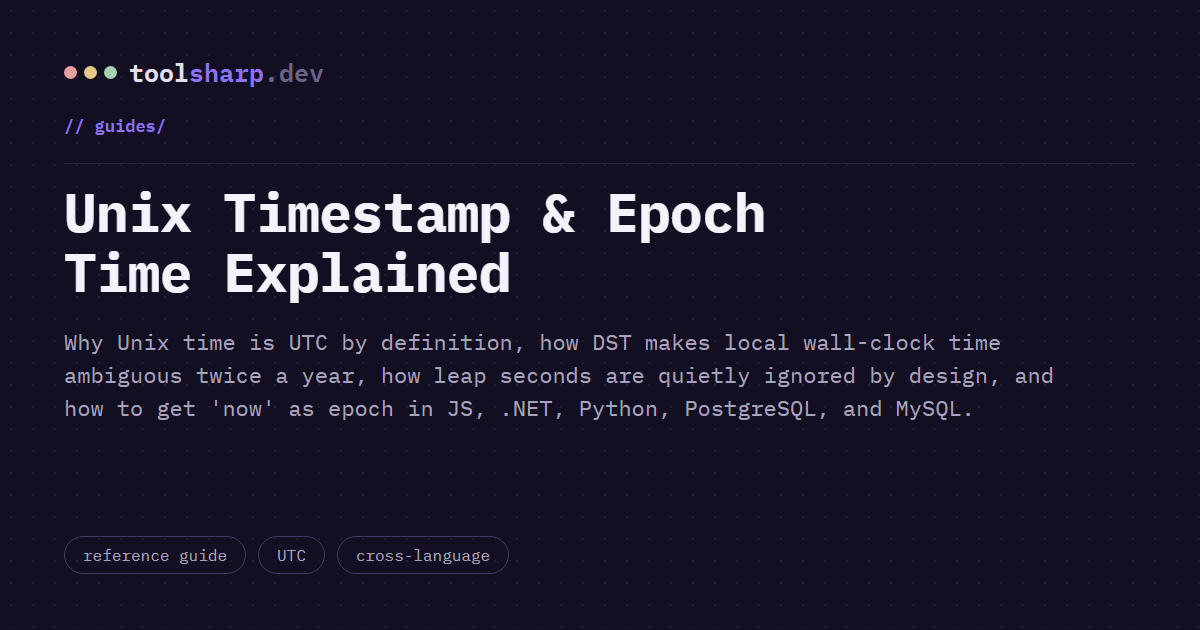
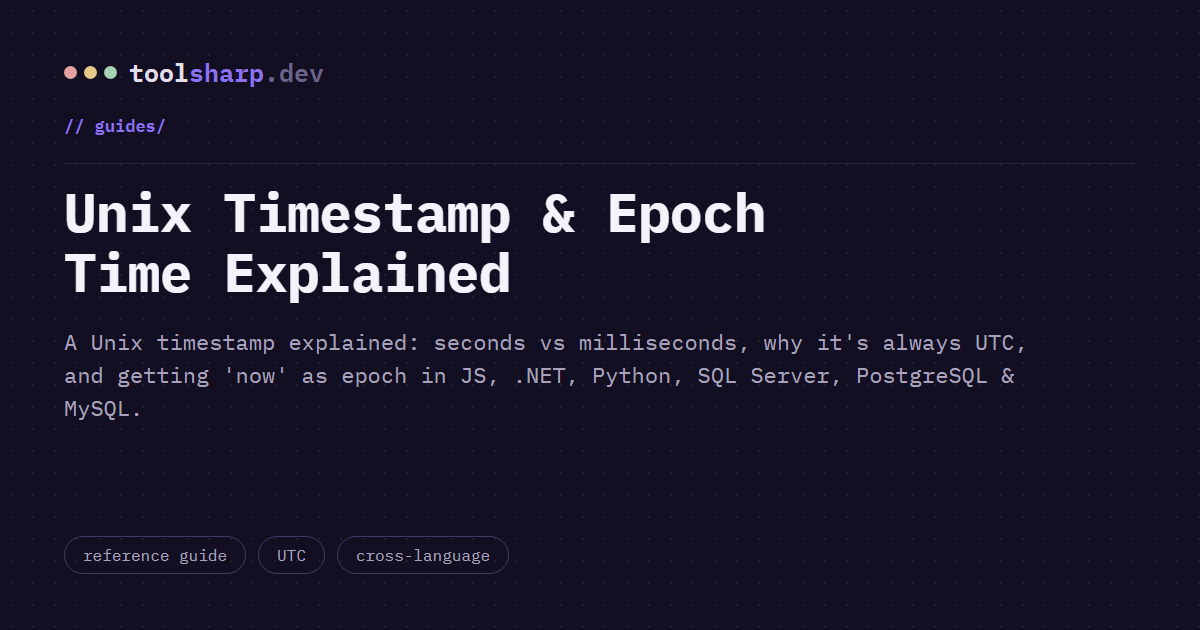
content: generate dedicated OG images for the 11 guides still using home.png
Found during another enhancement pass: more than half the guides (11 of
20) were falling back to the generic homepage card on social shares
instead of their own -- same gap already found and fixed for
curl-converter's tool page, just much bigger here. The generator
(scripts/generate-guide-og.js) already existed and already
auto-discovers every guide in guides/ rather than needing a hardcoded
list, so this was a matter of actually running it and wiring each
guide's og:image/twitter:image to the result -- nothing new to build.

Regenerating all 20 (not just the 11 missing) also caught a second,
smaller instance of the same underlying problem: unix-timestamp-epoch-
explained's card was stale from before its SQL Server/T-SQL section
was added, still showing the old description. That's the site's single
biggest source of impressions, so its OG card mattering is not
theoretical.

Verified: full E2E suite clean (crawl, links, a11y, 23/23 tools,
89/89 FAQ matches), new images confirmed present in the built dist,
two regenerated cards spot-checked visually.

Changed region(s): [[0.0308, 0.5127, 0.8942, 0.6635]]

diff --git a/guides/sql-server-keyword-not-supported-encrypt.html b/guides/sql-server-keyword-not-supported-encrypt.html
@@ -16,14 +16,14 @@
 <meta property="og:url" content="https://toolsharp.dev/guides/sql-server-keyword-not-supported-encrypt">
 <meta property="og:title" content="&quot;Keyword Not Supported&quot; and Certificate Trust Errors in SQL Server Connection Strings">
 <meta property="og:description" content="Why a SQL Server connection string that worked for years suddenly throws 'Keyword not supported' or 'certificate chain was issued by an authority that is not trusted' — both trace back to the same library change.">
-<meta property="og:image" content="https://toolsharp.dev/assets/og/home.png">
+<meta property="og:image" content="https://toolsharp.dev/assets/og/guide-sql-server-keyword-not-supported-encrypt.png">
 <meta property="og:site_name" content="ToolSharp.dev">
 
 <meta name="twitter:card" content="summary_large_image">
 <meta name="twitter:url" content="https://toolsharp.dev/guides/sql-server-keyword-not-supported-encrypt">
 <meta name="twitter:title" content="&quot;Keyword Not Supported&quot; and Certificate Trust Errors in SQL Server Connection Strings">
 <meta name="twitter:description" content="Why a SQL Server connection string that worked for years suddenly throws 'Keyword not supported' or 'certificate chain was issued by an authority that is not trusted' — both trace back to the same library change.">
-<meta name="twitter:image" content="https://toolsharp.dev/assets/og/home.png">
+<meta name="twitter:image" content="https://toolsharp.dev/assets/og/guide-sql-server-keyword-not-supported-encrypt.png">
 
 <link rel="preload" href="/assets/fonts/ibm-plex-sans.woff2" as="font" type="font/woff2" crossorigin>
 <link rel="preload" href="/assets/fonts/ibm-plex-mono-400.woff2" as="font" type="font/woff2" crossorigin>

diff --git a/guides/quartz-net-question-mark-explained.html b/guides/quartz-net-question-mark-explained.html
@@ -16,14 +16,14 @@
 <meta property="og:url" content="https://toolsharp.dev/guides/quartz-net-question-mark-explained">
 <meta property="og:title" content="Quartz.NET &quot;?&quot; vs &quot;*&quot; — Why Day-of-Month and Day-of-Week Can't Both Be Set">
 <meta property="og:description" content="Quartz.NET throws 'Support for specifying both a day-of-week AND a day-of-month parameter is not implemented' for expressions that look completely reasonable. Here's the exact rule, and why the ? character exists at all.">
-<meta property="og:image" content="https://toolsharp.dev/assets/og/home.png">
+<meta property="og:image" content="https://toolsharp.dev/assets/og/guide-quartz-net-question-mark-explained.png">
 <meta property="og:site_name" content="ToolSharp.dev">
 
 <meta name="twitter:card" content="summary_large_image">
 <meta name="twitter:url" content="https://toolsharp.dev/guides/quartz-net-question-mark-explained">
 <meta name="twitter:title" content="Quartz.NET &quot;?&quot; vs &quot;*&quot; — Why Day-of-Month and Day-of-Week Can't Both Be Set">
 <meta name="twitter:description" content="Quartz.NET throws 'Support for specifying both a day-of-week AND a day-of-month parameter is not implemented' for expressions that look completely reasonable. Here's the exact rule, and why the ? character exists at all.">
-<meta name="twitter:image" content="https://toolsharp.dev/assets/og/home.png">
+<meta name="twitter:image" content="https://toolsharp.dev/assets/og/guide-quartz-net-question-mark-explained.png">
 
 <link rel="preload" href="/assets/fonts/ibm-plex-sans.woff2" as="font" type="font/woff2" crossorigin>
 <link rel="preload" href="/assets/fonts/ibm-plex-mono-400.woff2" as="font" type="font/woff2" crossorigin>

diff --git a/guides/powershell-convertfrom-json-invalid-primitive.html b/guides/powershell-convertfrom-json-invalid-primitive.html
@@ -16,14 +16,14 @@
 <meta property="og:url" content="https://toolsharp.dev/guides/powershell-convertfrom-json-invalid-primitive">
 <meta property="og:title" content="PowerShell &quot;ConvertFrom-Json: Invalid JSON primitive&quot; — Explained">
 <meta property="og:description" content="ConvertFrom-Json : Invalid JSON primitive often has nothing to do with your JSON -- it's frequently non-JSON text mixed into the pipeline, or a difference between Windows PowerShell 5.1's parser and PowerShell 7's.">
-<meta property="og:image" content="https://toolsharp.dev/assets/og/home.png">
+<meta property="og:image" content="https://toolsharp.dev/assets/og/guide-powershell-convertfrom-json-invalid-primitive.png">
 <meta property="og:site_name" content="ToolSharp.dev">
 
 <meta name="twitter:card" content="summary_large_image">
 <meta name="twitter:url" content="https://toolsharp.dev/guides/powershell-convertfrom-json-invalid-primitive">
 <meta name="twitter:title" content="PowerShell &quot;ConvertFrom-Json: Invalid JSON primitive&quot; — Explained">
 <meta name="twitter:description" content="ConvertFrom-Json : Invalid JSON primitive often has nothing to do with your JSON -- it's frequently non-JSON text mixed into the pipeline, or a difference between Windows PowerShell 5.1's parser and PowerShell 7's.">
-<meta name="twitter:image" content="https://toolsharp.dev/assets/og/home.png">
+<meta name="twitter:image" content="https://toolsharp.dev/assets/og/guide-powershell-convertfrom-json-invalid-primitive.png">
 
 <link rel="preload" href="/assets/fonts/ibm-plex-sans.woff2" as="font" type="font/woff2" crossorigin>
 <link rel="preload" href="/assets/fonts/ibm-plex-mono-400.woff2" as="font" type="font/woff2" crossorigin>

diff --git a/guides/python-json-decode-error-explained.html b/guides/python-json-decode-error-explained.html
@@ -16,14 +16,14 @@
 <meta property="og:url" content="https://toolsharp.dev/guides/python-json-decode-error-explained">
 <meta property="og:title" content="Python &quot;JSONDecodeError: Expecting value&quot; — What It Actually Means">
 <meta property="og:description" content="json.decoder.JSONDecodeError: Expecting value: line 1 column 1 (char 0) almost always means you're not parsing JSON at all -- an empty response, an HTML error page, or a file path passed where a file object belongs.">
-<meta property="og:image" content="https://toolsharp.dev/assets/og/home.png">
+<meta property="og:image" content="https://toolsharp.dev/assets/og/guide-python-json-decode-error-explained.png">
 <meta property="og:site_name" content="ToolSharp.dev">
 
 <meta name="twitter:card" content="summary_large_image">
 <meta name="twitter:url" content="https://toolsharp.dev/guides/python-json-decode-error-explained">
 <meta name="twitter:title" content="Python &quot;JSONDecodeError: Expecting value&quot; — What It Actually Means">
 <meta name="twitter:description" content="json.decoder.JSONDecodeError: Expecting value: line 1 column 1 (char 0) almost always means you're not parsing JSON at all -- an empty response, an HTML error page, or a file path passed where a file object belongs.">
-<meta name="twitter:image" content="https://toolsharp.dev/assets/og/home.png">
+<meta name="twitter:image" content="https://toolsharp.dev/assets/og/guide-python-json-decode-error-explained.png">
 
 <link rel="preload" href="/assets/fonts/ibm-plex-sans.woff2" as="font" type="font/woff2" crossorigin>
 <link rel="preload" href="/assets/fonts/ibm-plex-mono-400.woff2" as="font" type="font/woff2" crossorigin>

diff --git a/guides/hangfire-cron-wrong-day-explained.html b/guides/hangfire-cron-wrong-day-explained.html
@@ -16,14 +16,14 @@
 <meta property="og:url" content="https://toolsharp.dev/guides/hangfire-cron-wrong-day-explained">
 <meta property="og:title" content="Hangfire Cron Job Running on the Wrong Day — Day-of-Week Numbering Explained">
 <meta property="og:description" content="Your Hangfire cron expression validates fine but fires on the wrong day. The cause is almost always day-of-week numbering — Cronos, Quartz.NET, and traditional cron don't all agree on what digit means Sunday.">
-<meta property="og:image" content="https://toolsharp.dev/assets/og/home.png">
+<meta property="og:image" content="https://toolsharp.dev/assets/og/guide-hangfire-cron-wrong-day-explained.png">
 <meta property="og:site_name" content="ToolSharp.dev">
 
 <meta name="twitter:card" content="summary_large_image">
 <meta name="twitter:url" content="https://toolsharp.dev/guides/hangfire-cron-wrong-day-explained">
 <meta name="twitter:title" content="Hangfire Cron Job Running on the Wrong Day — Day-of-Week Numbering Explained">
 <meta name="twitter:description" content="Your Hangfire cron expression validates fine but fires on the wrong day. The cause is almost always day-of-week numbering — Cronos, Quartz.NET, and traditional cron don't all agree on what digit means Sunday.">
-<meta name="twitter:image" content="https://toolsharp.dev/assets/og/home.png">
+<meta name="twitter:image" content="https://toolsharp.dev/assets/og/guide-hangfire-cron-wrong-day-explained.png">
 
 <link rel="preload" href="/assets/fonts/ibm-plex-sans.woff2" as="font" type="font/woff2" crossorigin>
 <link rel="preload" href="/assets/fonts/ibm-plex-mono-400.woff2" as="font" type="font/woff2" crossorigin>

diff --git a/guides/unexpected-end-of-json-input-explained.html b/guides/unexpected-end-of-json-input-explained.html
@@ -16,14 +16,14 @@
 <meta property="og:url" content="https://toolsharp.dev/guides/unexpected-end-of-json-input-explained">
 <meta property="og:title" content="&quot;Unexpected End of JSON Input&quot; — What It Actually Means">
 <meta property="og:description" content="SyntaxError: Unexpected end of JSON input means JSON.parse() received an empty string, not malformed JSON. Almost always a fetch() response body that was empty, not-yet-arrived, or never JSON to begin with.">
-<meta property="og:image" content="https://toolsharp.dev/assets/og/home.png">
+<meta property="og:image" content="https://toolsharp.dev/assets/og/guide-unexpected-end-of-json-input-explained.png">
 <meta property="og:site_name" content="ToolSharp.dev">
 
 <meta name="twitter:card" content="summary_large_image">
 <meta name="twitter:url" content="https://toolsharp.dev/guides/unexpected-end-of-json-input-explained">
 <meta name="twitter:title" content="&quot;Unexpected End of JSON Input&quot; — What It Actually Means">
 <meta name="twitter:description" content="SyntaxError: Unexpected end of JSON input means JSON.parse() received an empty string, not malformed JSON. Almost always a fetch() response body that was empty, not-yet-arrived, or never JSON to begin with.">
-<meta name="twitter:image" content="https://toolsharp.dev/assets/og/home.png">
+<meta name="twitter:image" content="https://toolsharp.dev/assets/og/guide-unexpected-end-of-json-input-explained.png">
 
 <link rel="preload" href="/assets/fonts/ibm-plex-sans.woff2" as="font" type="font/woff2" crossorigin>
 <link rel="preload" href="/assets/fonts/ibm-plex-mono-400.woff2" as="font" type="font/woff2" crossorigin>

diff --git a/guides/ef-core-migrations-already-up-to-date.html b/guides/ef-core-migrations-already-up-to-date.html
@@ -16,14 +16,14 @@
 <meta property="og:url" content="https://toolsharp.dev/guides/ef-core-migrations-already-up-to-date">
 <meta property="og:title" content="EF Core: &quot;The Database Is Already Up to Date&quot; — When It Isn't">
 <meta property="og:description" content="Update-Database says there's nothing to apply, but your new migration never ran. The usual cause is EnsureCreated() and Migrate() disagreeing about what __EFMigrationsHistory should contain.">
-<meta property="og:image" content="https://toolsharp.dev/assets/og/home.png">
+<meta property="og:image" content="https://toolsharp.dev/assets/og/guide-ef-core-migrations-already-up-to-date.png">
 <meta property="og:site_name" content="ToolSharp.dev">
 
 <meta name="twitter:card" content="summary_large_image">
 <meta name="twitter:url" content="https://toolsharp.dev/guides/ef-core-migrations-already-up-to-date">
 <meta name="twitter:title" content="EF Core: &quot;The Database Is Already Up to Date&quot; — When It Isn't">
 <meta name="twitter:description" content="Update-Database says there's nothing to apply, but your new migration never ran. The usual cause is EnsureCreated() and Migrate() disagreeing about what __EFMigrationsHistory should contain.">
-<meta name="twitter:image" content="https://toolsharp.dev/assets/og/home.png">
+<meta name="twitter:image" content="https://toolsharp.dev/assets/og/guide-ef-core-migrations-already-up-to-date.png">
 
 <link rel="preload" href="/assets/fonts/ibm-plex-sans.woff2" as="font" type="font/woff2" crossorigin>
 <link rel="preload" href="/assets/fonts/ibm-plex-mono-400.woff2" as="font" type="font/woff2" crossorigin>

diff --git a/guides/appsettings-secrets-in-git.html b/guides/appsettings-secrets-in-git.html
@@ -16,14 +16,14 @@
 <meta property="og:url" content="https://toolsharp.dev/guides/appsettings-secrets-in-git">
 <meta property="og:title" content="appsettings.json Secrets Committed to Git — How to Actually Fix It">
 <meta property="og:description" content="A real connection string or API key ended up in appsettings.json and got pushed. Deleting the line doesn't remove it from git history — here's what actually does, and why rotating the secret isn't optional.">
-<meta property="og:image" content="https://toolsharp.dev/assets/og/home.png">
+<meta property="og:image" content="https://toolsharp.dev/assets/og/guide-appsettings-secrets-in-git.png">
 <meta property="og:site_name" content="ToolSharp.dev">
 
 <meta name="twitter:card" content="summary_large_image">
 <meta name="twitter:url" content="https://toolsharp.dev/guides/appsettings-secrets-in-git">
 <meta name="twitter:title" content="appsettings.json Secrets Committed to Git — How to Actually Fix It">
 <meta name="twitter:description" content="A real connection string or API key ended up in appsettings.json and got pushed. Deleting the line doesn't remove it from git history — here's what actually does, and why rotating the secret isn't optional.">
-<meta name="twitter:image" content="https://toolsharp.dev/assets/og/home.png">
+<meta name="twitter:image" content="https://toolsharp.dev/assets/og/guide-appsettings-secrets-in-git.png">
 
 <link rel="preload" href="/assets/fonts/ibm-plex-sans.woff2" as="font" type="font/woff2" crossorigin>
 <link rel="preload" href="/assets/fonts/ibm-plex-mono-400.woff2" as="font" type="font/woff2" crossorigin>

diff --git a/guides/sqlite-net10-datetimeoffset-utc-breaking-change.html b/guides/sqlite-net10-datetimeoffset-utc-breaking-change.html
@@ -16,14 +16,14 @@
 <meta property="og:url" content="https://toolsharp.dev/guides/sqlite-net10-datetimeoffset-utc-breaking-change">
 <meta property="og:title" content="Microsoft.Data.Sqlite in .NET 10: DateTimeOffset Now Assumes UTC">
 <meta property="og:description" content="Upgrading to .NET 10 silently changes what GetDateTimeOffset() and GetDateTime() return from SQLite — same code, same data, different timestamp. No error, no warning.">
-<meta property="og:image" content="https://toolsharp.dev/assets/og/home.png">
+<meta property="og:image" content="https://toolsharp.dev/assets/og/guide-sqlite-net10-datetimeoffset-utc-breaking-change.png">
 <meta property="og:site_name" content="ToolSharp.dev">
 
 <meta name="twitter:card" content="summary_large_image">
 <meta name="twitter:url" content="https://toolsharp.dev/guides/sqlite-net10-datetimeoffset-utc-breaking-change">
 <meta name="twitter:title" content="Microsoft.Data.Sqlite in .NET 10: DateTimeOffset Now Assumes UTC">
 <meta name="twitter:description" content="Upgrading to .NET 10 silently changes what GetDateTimeOffset() and GetDateTime() return from SQLite — same code, same data, different timestamp. No error, no warning.">
-<meta name="twitter:image" content="https://toolsharp.dev/assets/og/home.png">
+<meta name="twitter:image" content="https://toolsharp.dev/assets/og/guide-sqlite-net10-datetimeoffset-utc-breaking-change.png">
 
 <link rel="preload" href="/assets/fonts/ibm-plex-sans.woff2" as="font" type="font/woff2" crossorigin>
 <link rel="preload" href="/assets/fonts/ibm-plex-mono-400.woff2" as="font" type="font/woff2" crossorigin>

diff --git a/guides/curl-data-json-content-type-explained.html b/guides/curl-data-json-content-type-explained.html
@@ -16,14 +16,14 @@
 <meta property="og:url" content="https://toolsharp.dev/guides/curl-data-json-content-type-explained">
 <meta property="og:title" content="Why curl -d Doesn't Send application/json — Even With a JSON Body">
 <meta property="og:description" content="curl -d sends Content-Type: application/x-www-form-urlencoded by default, even when the body you passed is JSON. Here's why that produces a null model or a 400, not a parse error.">
-<meta property="og:image" content="https://toolsharp.dev/assets/og/home.png">
+<meta property="og:image" content="https://toolsharp.dev/assets/og/guide-curl-data-json-content-type-explained.png">
 <meta property="og:site_name" content="ToolSharp.dev">
 
 <meta name="twitter:card" content="summary_large_image">
 <meta name="twitter:url" content="https://toolsharp.dev/guides/curl-data-json-content-type-explained">
 <meta name="twitter:title" content="Why curl -d Doesn't Send application/json — Even With a JSON Body">
 <meta name="twitter:description" content="curl -d sends Content-Type: application/x-www-form-urlencoded by default, even when the body you passed is JSON. Here's why that produces a null model or a 400, not a parse error.">
-<meta name="twitter:image" content="https://toolsharp.dev/assets/og/home.png">
+<meta name="twitter:image" content="https://toolsharp.dev/assets/og/guide-curl-data-json-content-type-explained.png">
 
 <link rel="preload" href="/assets/fonts/ibm-plex-sans.woff2" as="font" type="font/woff2" crossorigin>
 <link rel="preload" href="/assets/fonts/ibm-plex-mono-400.woff2" as="font" type="font/woff2" crossorigin>

diff --git a/guides/url-hash-fragment-explained.html b/guides/url-hash-fragment-explained.html
@@ -16,14 +16,14 @@
 <meta property="og:url" content="https://toolsharp.dev/guides/url-hash-fragment-explained">
 <meta property="og:title" content="The URL Fragment (#...) That Never Reaches Your Server">
 <meta property="og:description" content="Everything after # in a URL never appears in the HTTP request — verified with a real network capture. Why this exists, what OAuth and client-side routers use it for, and where the guarantee actually ends.">
-<meta property="og:image" content="https://toolsharp.dev/assets/og/home.png">
+<meta property="og:image" content="https://toolsharp.dev/assets/og/guide-url-hash-fragment-explained.png">
 <meta property="og:site_name" content="ToolSharp.dev">
 
 <meta name="twitter:card" content="summary_large_image">
 <meta name="twitter:url" content="https://toolsharp.dev/guides/url-hash-fragment-explained">
 <meta name="twitter:title" content="The URL Fragment (#...) That Never Reaches Your Server">
 <meta name="twitter:description" content="Everything after # in a URL never appears in the HTTP request — verified with a real network capture. Why this exists, what OAuth and client-side routers use it for, and where the guarantee actually ends.">
-<meta name="twitter:image" content="https://toolsharp.dev/assets/og/home.png">
+<meta name="twitter:image" content="https://toolsharp.dev/assets/og/guide-url-hash-fragment-explained.png">
 
 <link rel="preload" href="/assets/fonts/ibm-plex-sans.woff2" as="font" type="font/woff2" crossorigin>
 <link rel="preload" href="/assets/fonts/ibm-plex-mono-400.woff2" as="font" type="font/woff2" crossorigin>
